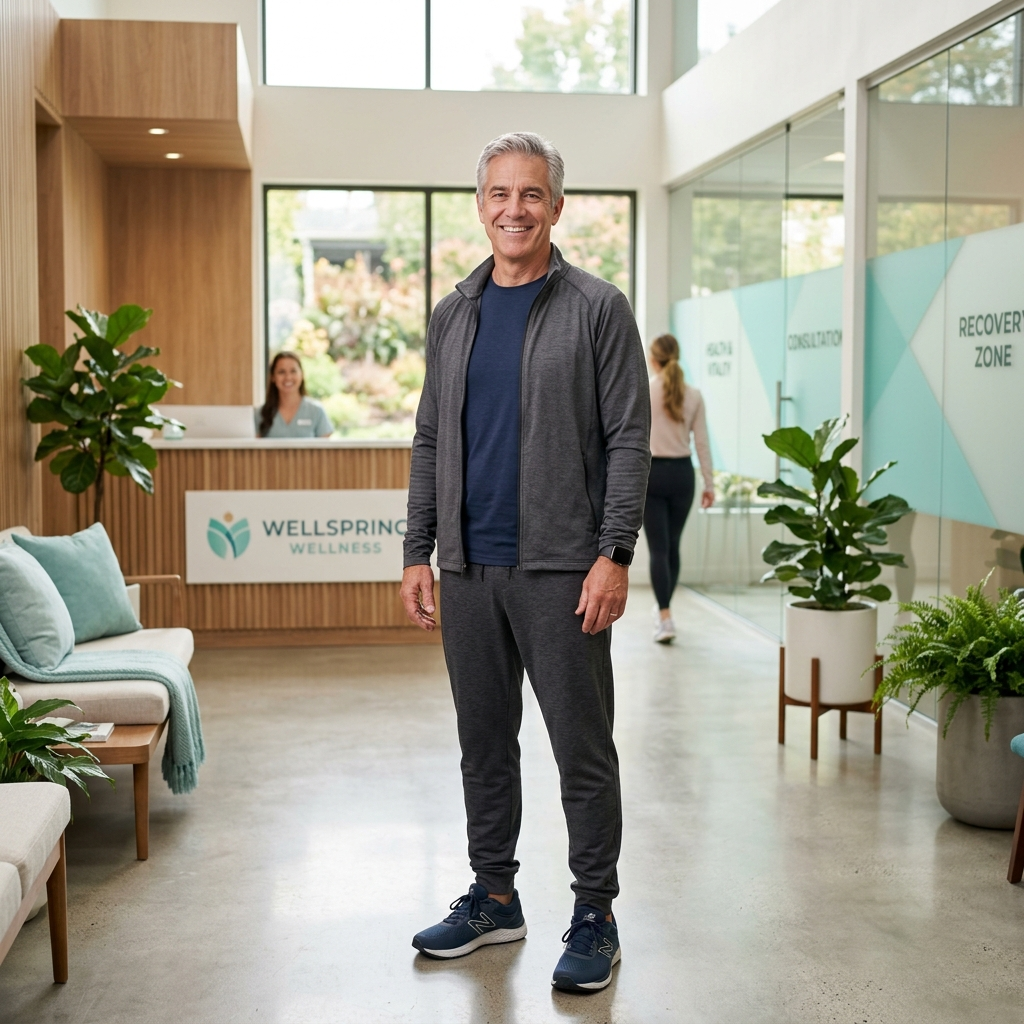
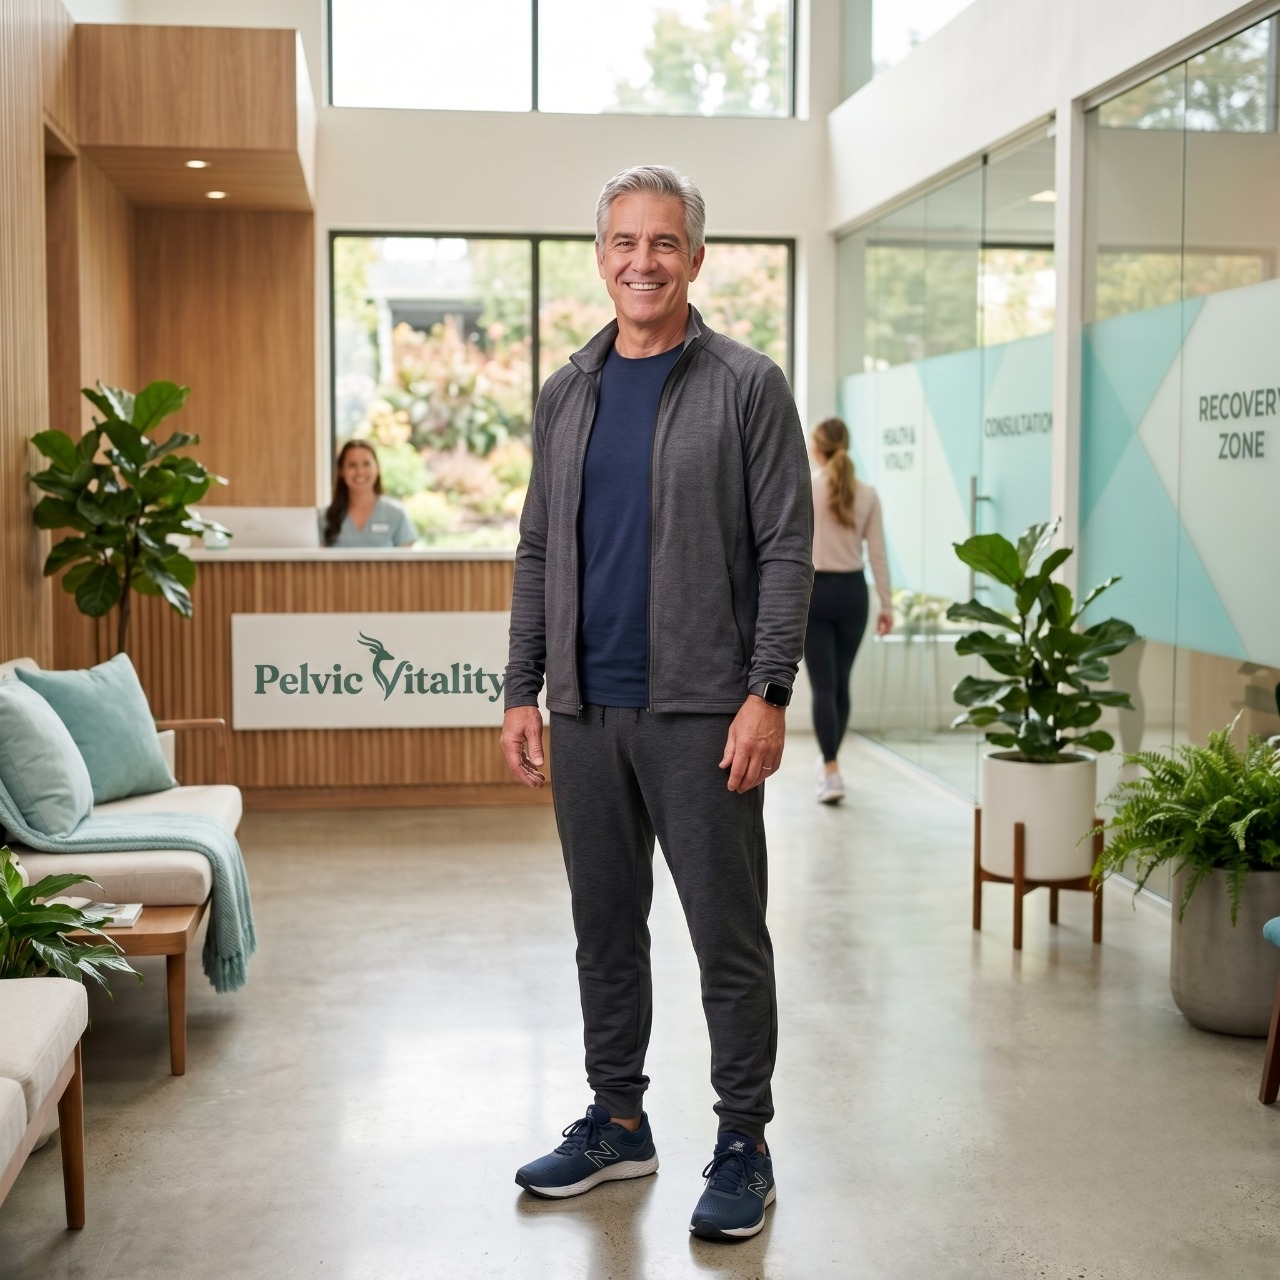
images added

diff --git a/src/components/sections/Testimonials.jsx b/src/components/sections/Testimonials.jsx
@@ -46,12 +46,6 @@ const Testimonials = () => {
                 "{testimonial.quote}"
               </p>
               <div className="mt-auto flex items-center gap-4">
-                <img 
-                  src={testimonial.avatar} 
-                  alt={testimonial.author} 
-                  className="w-12 h-12 rounded-[5px] border-2 border-dark object-cover" 
-                  onError={(e) => { e.target.src = 'https://via.placeholder.com/48?text=PV'; }}
-                />
                 <div>
                   <p className="font-heading font-bold text-dark">{testimonial.author}</p>
                 </div>

diff --git a/src/components/sections/Contact.jsx b/src/components/sections/Contact.jsx
@@ -18,7 +18,7 @@ const Contact = () => {
             <div className="w-full lg:w-1/3 space-y-8">
               <div className="rounded-[10px] border-2 border-dark overflow-hidden aspect-square relative shadow-sm">
                 <img 
-                  src="https://pelvic-vitality.vercel.app/images/therapist.png" 
+                  src="/images/therapist.png" 
                   alt="Friendly physical therapist" 
                   className="w-full h-full object-cover"
                 />
